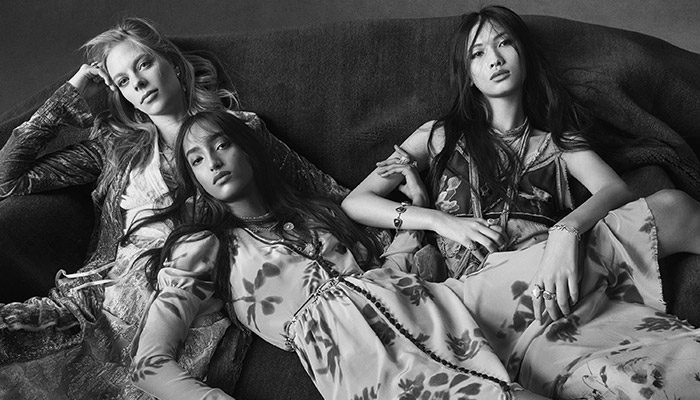
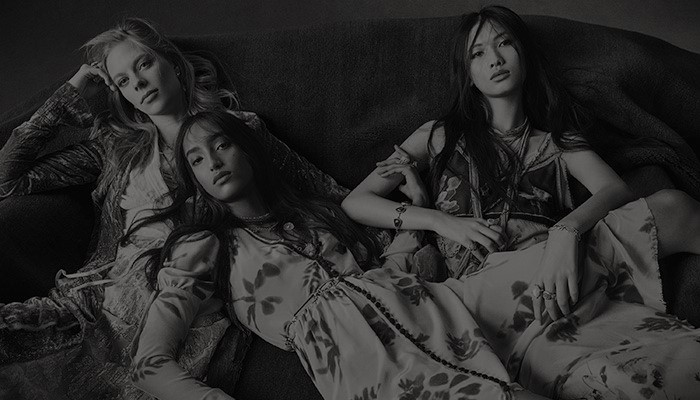
Added Containers to Main -Page

diff --git a/home.css b/home.css
@@ -9,7 +9,7 @@
     font-family: "Saira Extra Condensed", sans-serif;
     font-weight: 500;
     font-size: 16px;
-    color: beige;
+    color: rgb(255, 255, 255);
     text-decoration: none;
   }
   
@@ -18,13 +18,13 @@
     justify-content: space-between;
     align-items: center;
     padding:30px 10% ;
-    background-color: black;
+    background-color: #121212;
     height: 40px;
   }
   #logo{
     cursor: pointer;
-    color: beige;
-    font-size: 30px;
+    color: rgb(250, 250, 250);
+    font-size: 35px;
     padding: 0%;
     margin: 0%;
     font-weight: 600;
@@ -43,8 +43,8 @@
     color: rgb(162, 162, 162);
   }
   .dropbtn {
-     background-color: #000000; 
-    color: white;
+     background-color: #121212; 
+    color: rgb(165, 164, 164);
     padding: 16px;
     font-size: 16px;
     border: none;
@@ -58,7 +58,7 @@
   .dropdown-content {
     display: none;
     position: absolute;
-    background-color: #f1f1f1;
+    background-color: #c6c4c4;
     min-width: 160px;
     box-shadow: 0px 8px 16px 0px rgba(0,0,0,0.2);
     z-index: 1;
@@ -78,42 +78,208 @@
   .dropdown:hover .dropbtn {
     background-color: #1e1e1e;
     border-radius: 5px;
+
   }
+ 
   
-/* main css */
-  .container {
-    position: relative;
-    text-align: center;
-    color: white;
-  }
-  
-  .bottom-left {
-    position: absolute;
-    bottom: 8px;
-    left: 16px;
-  }
-  
+/* ----------MAIN CSS----------- */
+/*---FIRST-CONTAINER*/
   .top-left {
     position: absolute;
     top: 8px;
     left: 16px;
+   
+  }
+  .top-left p {
+    margin-top: 70px;
+     font-size: 110px;
+     font-weight: 600;
+     color: #f1f1f1c1;
   }
   
-  .top-right {
-    position: absolute;
-    top: 8px;
-    right: 16px;
-  }
-  
-  .bottom-right {
+   .bottom-right {
     position: absolute;
     bottom: 8px;
     right: 16px;
+    font-size:35px ;
+    font-weight: 400;
+    color: #f1f1f170;
   }
   
-  .centered {
-    position: absolute;
-    top: 50%;
-    left: 50%;
-    transform: translate(-50%, -50%);
+  .bottom-right p{
+    display: inline;
+    font-size:50px ;
+    color: #f1f1f193;
+    font-weight: 600;
   }
+
+  #button{
+    color: #f1f1f1;
+    background-color: #000000ac;
+    width:200px;
+    height: 50px;
+    margin-left: 50px;
+    margin-top: -40px;
+    border-radius: 8px;
+    font-size: 20px;
+  }
+  @media (max-width: 768px) {
+    #img, .top-left,
+    .bottom-right {
+        display: none; 
+    }
+    #button {
+        margin: 0 auto;
+        display: block;
+        position: relative; 
+    }
+}
+/*----------SECOND CONTAINER----*/
+body {
+  font-family: 'Arial', sans-serif;
+  margin: 0;
+  padding: 0;
+  background-color: #f4f4f4;
+  color: #000;
+  text-align: center;
+}
+.container-2 {
+  max-width: 1200px;
+  margin: 0 auto;
+  padding: 40px 20px;
+}
+.title {
+  font-size: 50px;
+  font-weight: bold;
+  letter-spacing: 2px;
+  text-transform: uppercase;
+  margin-bottom: 40px;
+  color: #000;
+  text-align: center;
+}
+.grid {
+  display: grid;
+  grid-template-columns: repeat(4, 1fr);
+  gap: 40px;
+  align-items: center;
+}
+.item {
+  text-align: center;
+}
+.item img {
+  width: 100%;
+  height: 300px;
+  margin-bottom: 15px;
+}
+.name {
+  font-size: 14px;
+  font-weight: 400;
+  text-transform: uppercase;
+  margin: 10px 0;
+  color: #000;
+}
+.price {
+  font-size: 14px;
+  font-weight: bold;
+  margin: 0;
+  color: #000;
+}
+.item img {
+  box-shadow: 0 4px 8px rgba(0, 0, 0, 0.2);
+}
+
+/* Grid Responsiveness */
+@media (max-width: 992px) {
+  .grid {
+    grid-template-columns: repeat(2, 1fr);
+  }
+}
+
+@media (max-width: 576px) {
+  .grid {
+    grid-template-columns: 1fr;
+  }
+}
+
+
+/* ------THIRD CONTAINER-- */
+.new-collections {  
+  display: flex;
+  flex-wrap: wrap;
+  max-width: 1200px;
+  gap: 40px;
+  padding: 20px;
+  margin-top: 30px;
+}
+.text-content {
+  flex: 1;
+  display: flex;
+  flex-direction: column;
+  gap: 20px;
+  max-width: 500px;
+  margin-left: 60px;
+  text-align: justify;
+}
+.text-content h1 {
+  font-size: 60px;
+  font-weight: 700;
+  line-height: 1.2;
+}
+.text-content .see-more {
+  font-size: 18px;
+  color: rgba(0, 0, 0, 0.658);
+  text-decoration: none;
+  display: inline-block;
+  margin-bottom: 20px;
+  font-weight: 500;
+}
+.text-content .see-more:hover {
+  text-decoration: underline;
+}
+.text-content p {
+  font-size: 16px;
+  line-height: 1.8;
+  color: #333;
+}
+.image-content {
+  display: inline;
+  flex-direction: column;
+}
+.large-image {
+  width: 300px;
+  height: 400px;
+  object-fit: cover;
+  margin-left: 20px;
+}
+.small-image {
+  width: 200px;
+  height: 250px;
+  object-fit: cover;
+  align-self: flex-end;
+  margin-left: 20px;
+}
+
+/* Responsive Design */
+@media (max-width: 768px) {
+  .new-collections {
+    flex-direction: column;
+    align-items: center;
+    text-align: center;
+  }
+
+  .text-content h1 {
+    font-size: 40px;
+  }
+
+  .image-content {
+    flex-direction: row;
+    justify-content: center;
+    gap: 10px;
+  }
+
+  .large-image, .small-image {
+    width: 100%;
+    max-width: 300px;
+    height: auto;
+  }
+}

diff --git a/home.html b/home.html
@@ -33,16 +33,74 @@
 
        <main>
         <div class="container">
-            <img src="./images/ZARA-SS20-Steven-Meisel-00.jpg" alt="Snow" style="width:100%; height: 40%;">
+            <img id="img" src="./images/ZARA-SS20-Steven-Meisel-00.jpg" alt="img" style="width:100%; height:530px; opacity: 0.9;">
             <div class="top-left">
+              <p>
                 NEW<br> 
-                COLLECTION <br>
-                <button type="button">Shop now</button>
+               <p style="margin-top: -40px; margin-bottom: 0px;">COLLECTION</p> 
+            </p>
+               <br>
+                <button type="button" id="button">Shop now</button>
             </div>
-            <div class="bottom-right">24/25 AUTUMN-WINTER <br> COATS AND JACKETS</div>
+            <div class="bottom-right"><p>24/25 </p> AUTUMN-WINTER <br> COATS AND JACKETS</div>
           </div>
+ 
+          <!--Second Container-->
+          <div class="container-2">
+            <h1 class="title">READY-TO-WEAR</h1>
+            <div class="grid">
+              <div class="item">
+                <a href="page1.html">
+                  <img src="images/download.jpeg" alt="Women's Black Two Pieces Set">
+                <p class="name">WOMEN'S BLACK TWO PIECES SET</p>
+                <p class="price">$3100</p>
+              </a>
+            </div>
+              <div class="item">
+                <a href="page2.html">
+                  <img src="images/images.jpeg" alt="Women's Minimalistic Black Jeans">
+                
+                <p class="name">WOMEN'S MINIMALISTIC BLACK JEANS</p>
+                <p class="price">$2600</p>
+              </a>
+            </div>
+              <div class="item">
+                <a href="page3.html">
+                  <img src="images/Screenshot 2024-07-06 194827.jpg" alt="Black Bear Fluffy Hat">
+               
+                <p class="name">BLACK BEAR FLUFFY HAT</p>
+                <p class="price">$1500</p>
+               </a>
+              </div>
+              <div class="item">
+                <a href="page4.html">
+                  <img src="images/Zara-Spring-Summer-2017-Campaign04.jpg" alt="Minimalistic Short Stylish Skirt">
+                <p class="name">MINIMALISTIC SHORT STYLISH SKIRT</p>
+                <p class="price">$2800</p>
+              </a></div>
+            </div>
+          </div>
+
+          <!--Third container -->
+          <section class="new-collections">
+            <div class="text-content">
+              <h1>NEW <br> COLLECTIONS</h1>
+              <a href="#" class="see-more">See more →</a>
+              <p>
+                Lorem ipsum dolor sit amet, consectetur adipiscing elit, sed do eiusmod tempor incididunt ut labore et dolore magna aliqua. 
+                Lorem ipsum dolor sit amet, consectetur adipiscing elit, sed do eiusmod tempor incididunt ut labore et dolore magna aliqua.
+              </p>
+            </div>
+            <div class="image-content">
+              <img src="./images/TGM-Ramadan-Collection-min-1-1-1.jpg" alt="Collection Image 1" class="large-image">
+              <img src="./images/images (2).jpeg" alt="Collection Image 2" class="small-image">
+            </div>
+          </section>
+
        </main>
     
+</body>
+</html>
 </body>
 </html>
 
